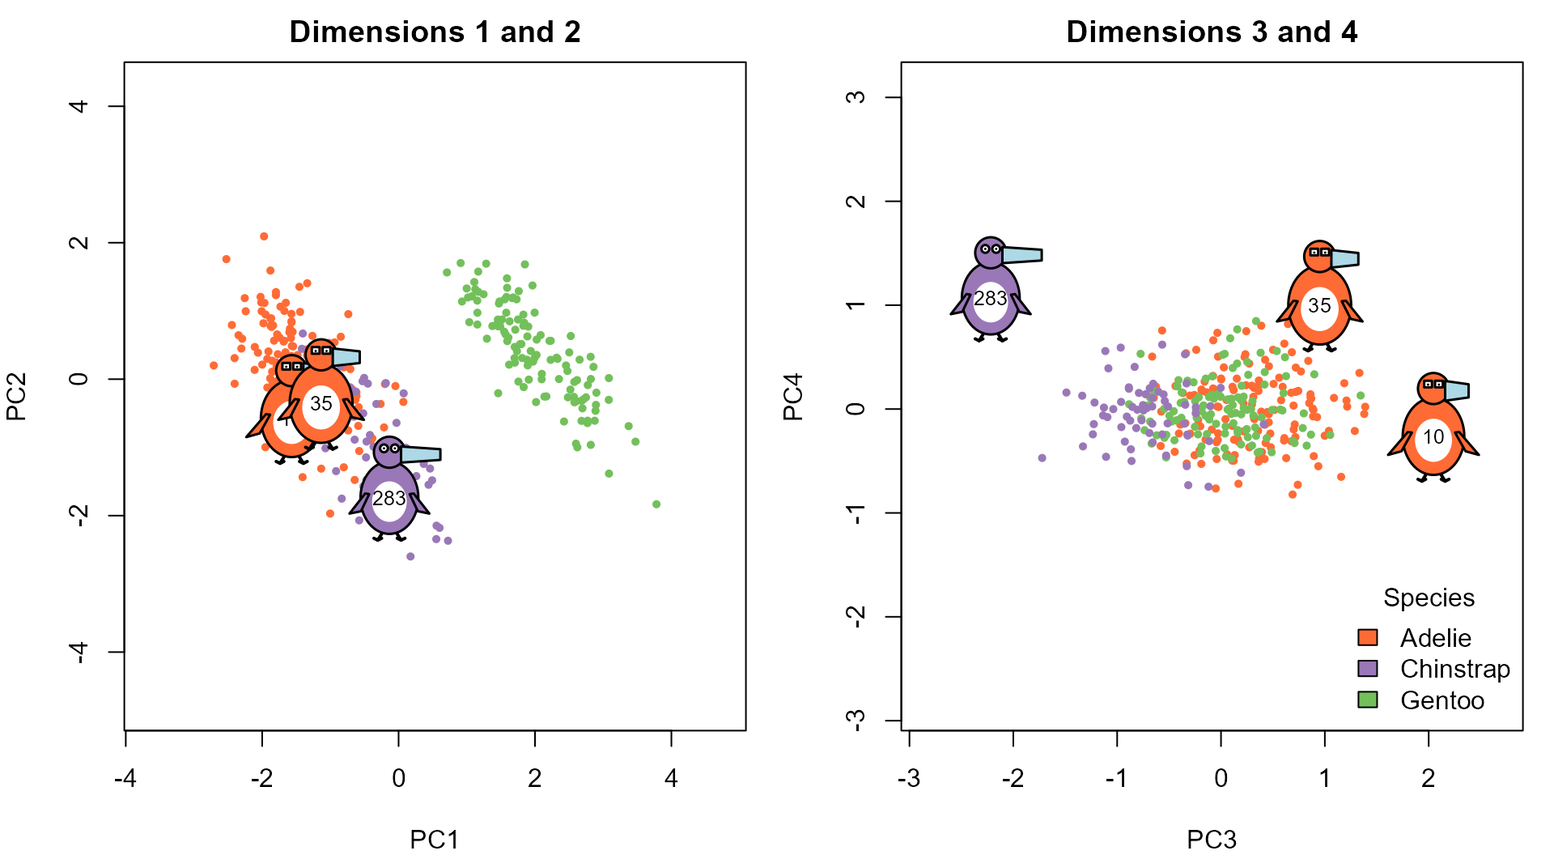
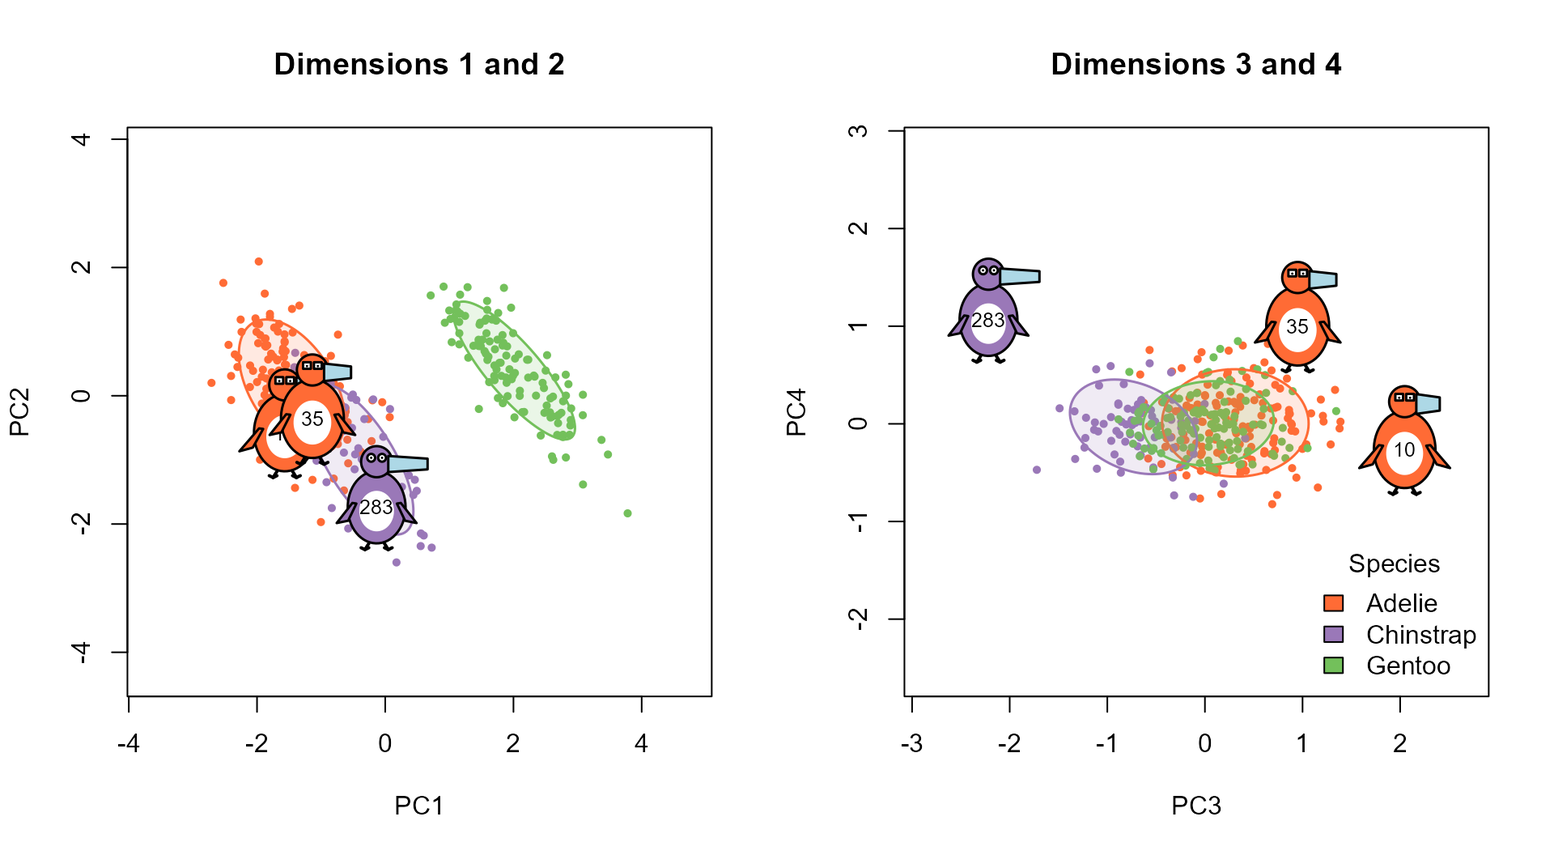
introduction vignette: use tinyplot, with data ellipses for the species
The scatterplot and the two principal component plots are drawn with
tinyplot, adding 68% data ellipses (lwd = 1.5, translucent fill). The
outlier figure uses tpar(mfrow) with a single legend inside the frame.

diff --git a/docs/articles/introduction.html b/docs/articles/introduction.html
@@ -104,7 +104,7 @@ drawing a penguin observation using R graphics like
 <code class="sourceCode R"><span><span class="co"># Install from GitHub</span></span>
 <span><span class="fu">devtools</span><span class="fu">::</span><span class="fu"><a href="https://devtools.r-lib.org/reference/install-deprecated.html" class="external-link">install_github</a></span><span class="op">(</span><span class="st">"friendly/penguinglyphs"</span><span class="op">)</span></span></code></pre></div>
 <div class="sourceCode" id="cb2"><pre class="downlit sourceCode r">
-<code class="sourceCode R"><span><span class="kw"><a href="https://rdrr.io/r/base/library.html" class="external-link">library</a></span><span class="op">(</span><span class="va"><a href="https://friendly.github.io/penguinglyphs/">penguinglyphs</a></span><span class="op">)</span></span></code></pre></div>
+<code class="sourceCode R"><span><span class="kw"><a href="https://rdrr.io/r/base/library.html" class="external-link">library</a></span><span class="op">(</span><span class="va"><a href="https://github.com/friendly/penguinglyphs" class="external-link">penguinglyphs</a></span><span class="op">)</span></span></code></pre></div>
 </div>
 <div class="section level2">
 <h2 id="visual-encoding">Visual Encoding<a class="anchor" aria-label="anchor" href="#visual-encoding"></a>
@@ -217,38 +217,68 @@ plotting symbol. <code><a href="../reference/penguin_points.html">penguin_points
 for each row of a data frame at given coordinates in an existing plot,
 as <code><a href="https://rdrr.io/r/graphics/points.html" class="external-link">points()</a></code> does for ordinary symbols.
 <code><a href="../reference/penguin_colors.html">penguin_legend()</a></code> adds a legend for the species.</p>
+<p>These plots are drawn with the <a href="https://grantmcdermott.com/tinyplot/" class="external-link">tinyplot</a> package, a
+lightweight extension of base R graphics that makes it easy to plot data
+by groups. Because it uses base graphics, penguin glyphs can be added to
+a <code><a href="https://grantmcdermott.com/tinyplot/man/tinyplot.html" class="external-link">tinyplot()</a></code> just as they can to a <code><a href="https://rdrr.io/r/graphics/plot.default.html" class="external-link">plot()</a></code>. In
+particular, it can draw a data ellipse for each species, to give a
+summary of the data that the glyphs can be seen against. I use 68%
+ellipses, lightly filled with a transparent version of the species
+color, the bivariate analog of a mean
+<math display="inline" xmlns="http://www.w3.org/1998/Math/MathML"><semantics><mo>±</mo><annotation encoding="application/x-tex">\pm</annotation></semantics></math>
+one standard deviation interval.</p>
 <p>Here, the glyphs for a sample of 40 penguins are the points in a
 scatterplot of body mass against flipper length. The glyphs repeat what
 the axes show, in that penguins toward the right have longer flippers
 and those toward the top have larger bodies, but they also show the bill
 and the sex of each penguin.</p>
 <div class="sourceCode" id="cb8"><pre class="downlit sourceCode r">
-<code class="sourceCode R"><span><span class="fu"><a href="https://rdrr.io/r/base/Random.html" class="external-link">set.seed</a></span><span class="op">(</span><span class="fl">42</span><span class="op">)</span></span>
+<code class="sourceCode R"><span><span class="kw"><a href="https://rdrr.io/r/base/library.html" class="external-link">library</a></span><span class="op">(</span><span class="va"><a href="https://grantmcdermott.com/tinyplot/" class="external-link">tinyplot</a></span><span class="op">)</span></span>
+<span><span class="va">cols</span> <span class="op">&lt;-</span> <span class="fu"><a href="https://rdrr.io/r/base/unname.html" class="external-link">unname</a></span><span class="op">(</span><span class="fu"><a href="../reference/penguin_colors.html">penguin_colors</a></span><span class="op">(</span><span class="op">)</span><span class="op">)</span></span>
+<span></span>
+<span><span class="fu"><a href="https://rdrr.io/r/base/Random.html" class="external-link">set.seed</a></span><span class="op">(</span><span class="fl">42</span><span class="op">)</span></span>
 <span><span class="va">show</span> <span class="op">&lt;-</span> <span class="fu"><a href="https://rdrr.io/r/base/sample.html" class="external-link">sample</a></span><span class="op">(</span><span class="fu"><a href="https://rdrr.io/r/base/nrow.html" class="external-link">nrow</a></span><span class="op">(</span><span class="va">peng</span><span class="op">)</span>, <span class="fl">40</span><span class="op">)</span></span>
 <span><span class="va">samp</span> <span class="op">&lt;-</span> <span class="va">peng</span><span class="op">[</span><span class="va">show</span>, <span class="op">]</span></span>
 <span></span>
-<span><span class="fu"><a href="https://rdrr.io/r/graphics/plot.default.html" class="external-link">plot</a></span><span class="op">(</span><span class="va">body_mass</span> <span class="op">~</span> <span class="va">flipper_len</span>, data <span class="op">=</span> <span class="va">samp</span>, type <span class="op">=</span> <span class="st">"n"</span>,</span>
-<span>     xlab <span class="op">=</span> <span class="st">"Flipper length (mm)"</span>, ylab <span class="op">=</span> <span class="st">"Body mass (g)"</span><span class="op">)</span></span>
+<span><span class="fu"><a href="https://grantmcdermott.com/tinyplot/man/tinyplot.html" class="external-link">tinyplot</a></span><span class="op">(</span><span class="va">body_mass</span> <span class="op">~</span> <span class="va">flipper_len</span> <span class="op">|</span> <span class="va">species</span>, data <span class="op">=</span> <span class="va">samp</span>,</span>
+<span>         type <span class="op">=</span> <span class="fu"><a href="https://grantmcdermott.com/tinyplot/man/type_ellipse.html" class="external-link">type_ellipse</a></span><span class="op">(</span>level <span class="op">=</span> <span class="fl">0.68</span><span class="op">)</span>,</span>
+<span>         col <span class="op">=</span> <span class="va">cols</span>, lwd <span class="op">=</span> <span class="fl">1.5</span>,</span>
+<span>         bg <span class="op">=</span> <span class="fu"><a href="https://rdrr.io/r/grDevices/adjustcolor.html" class="external-link">adjustcolor</a></span><span class="op">(</span><span class="va">cols</span>, alpha.f <span class="op">=</span> <span class="fl">0.15</span><span class="op">)</span>,</span>
+<span>         legend <span class="op">=</span> <span class="cn">FALSE</span>,</span>
+<span>         xlim <span class="op">=</span> <span class="fu"><a href="https://rdrr.io/r/grDevices/extendrange.html" class="external-link">extendrange</a></span><span class="op">(</span><span class="va">samp</span><span class="op">$</span><span class="va">flipper_len</span>, f <span class="op">=</span> <span class="fl">0.1</span><span class="op">)</span>,   <span class="co"># room for the glyphs</span></span>
+<span>         ylim <span class="op">=</span> <span class="fu"><a href="https://rdrr.io/r/grDevices/extendrange.html" class="external-link">extendrange</a></span><span class="op">(</span><span class="va">samp</span><span class="op">$</span><span class="va">body_mass</span>, f <span class="op">=</span> <span class="fl">0.1</span><span class="op">)</span>,</span>
+<span>         xlab <span class="op">=</span> <span class="st">"Flipper length (mm)"</span>, ylab <span class="op">=</span> <span class="st">"Body mass (g)"</span><span class="op">)</span></span>
 <span><span class="fu"><a href="../reference/penguin_points.html">penguin_points</a></span><span class="op">(</span><span class="va">samp</span><span class="op">$</span><span class="va">flipper_len</span>, <span class="va">samp</span><span class="op">$</span><span class="va">body_mass</span>, <span class="va">samp</span><span class="op">)</span></span>
 <span><span class="fu"><a href="../reference/penguin_colors.html">penguin_legend</a></span><span class="op">(</span><span class="st">"topleft"</span>, <span class="va">samp</span><span class="op">$</span><span class="va">species</span><span class="op">)</span></span></code></pre></div>
 <div class="figure">
-<img src="introduction_files/figure-html/fig-scatter-1.png" class="r-plt" alt="Penguin glyphs as the point symbols in a scatterplot" width="768"><p class="caption">
-Penguin glyphs as the point symbols in a scatterplot
+<img src="introduction_files/figure-html/fig-scatter-1.png" class="r-plt" alt="Penguin glyphs as the point symbols in a scatterplot, with 68% data ellipses for the species" width="768"><p class="caption">
+Penguin glyphs as the point symbols in a scatterplot, with 68% data
+ellipses for the species
 </p>
 </div>
 <p>The coordinates need not be variables in the data. A more useful
 display puts the glyphs in the space of the first two principal
 components, so that position summarizes all four measurements, and the
-glyph shows what lies behind it.</p>
+glyph shows what lies behind it. In this plot, the ellipses are
+calculated from all the penguins, and the glyphs are those for the
+sample.</p>
 <div class="sourceCode" id="cb9"><pre class="downlit sourceCode r">
 <code class="sourceCode R"><span><span class="va">pca</span> <span class="op">&lt;-</span> <span class="fu"><a href="https://rdrr.io/r/stats/prcomp.html" class="external-link">prcomp</a></span><span class="op">(</span><span class="va">peng</span><span class="op">[</span>, <span class="fl">3</span><span class="op">:</span><span class="fl">6</span><span class="op">]</span>, scale. <span class="op">=</span> <span class="cn">TRUE</span><span class="op">)</span></span>
+<span><span class="va">scores</span> <span class="op">&lt;-</span> <span class="fu"><a href="https://rdrr.io/r/base/data.frame.html" class="external-link">data.frame</a></span><span class="op">(</span><span class="va">pca</span><span class="op">$</span><span class="va">x</span>, species <span class="op">=</span> <span class="va">peng</span><span class="op">$</span><span class="va">species</span><span class="op">)</span></span>
 <span></span>
-<span><span class="fu"><a href="https://rdrr.io/r/graphics/plot.default.html" class="external-link">plot</a></span><span class="op">(</span><span class="va">pca</span><span class="op">$</span><span class="va">x</span><span class="op">[</span>, <span class="fl">1</span><span class="op">:</span><span class="fl">2</span><span class="op">]</span>, type <span class="op">=</span> <span class="st">"n"</span>, asp <span class="op">=</span> <span class="fl">1</span><span class="op">)</span></span>
-<span><span class="fu"><a href="../reference/penguin_points.html">penguin_points</a></span><span class="op">(</span><span class="va">pca</span><span class="op">$</span><span class="va">x</span><span class="op">[</span><span class="va">show</span>, <span class="fl">1</span><span class="op">]</span>, <span class="va">pca</span><span class="op">$</span><span class="va">x</span><span class="op">[</span><span class="va">show</span>, <span class="fl">2</span><span class="op">]</span>, <span class="va">samp</span><span class="op">)</span></span>
-<span><span class="fu"><a href="../reference/penguin_colors.html">penguin_legend</a></span><span class="op">(</span><span class="st">"top"</span>, <span class="va">samp</span><span class="op">$</span><span class="va">species</span>, horiz <span class="op">=</span> <span class="cn">TRUE</span><span class="op">)</span></span></code></pre></div>
+<span><span class="fu"><a href="https://grantmcdermott.com/tinyplot/man/tinyplot.html" class="external-link">tinyplot</a></span><span class="op">(</span><span class="va">PC2</span> <span class="op">~</span> <span class="va">PC1</span> <span class="op">|</span> <span class="va">species</span>, data <span class="op">=</span> <span class="va">scores</span>,</span>
+<span>         type <span class="op">=</span> <span class="fu"><a href="https://grantmcdermott.com/tinyplot/man/type_ellipse.html" class="external-link">type_ellipse</a></span><span class="op">(</span>level <span class="op">=</span> <span class="fl">0.68</span><span class="op">)</span>,</span>
+<span>         col <span class="op">=</span> <span class="va">cols</span>, lwd <span class="op">=</span> <span class="fl">1.5</span>,</span>
+<span>         bg <span class="op">=</span> <span class="fu"><a href="https://rdrr.io/r/grDevices/adjustcolor.html" class="external-link">adjustcolor</a></span><span class="op">(</span><span class="va">cols</span>, alpha.f <span class="op">=</span> <span class="fl">0.15</span><span class="op">)</span>,</span>
+<span>         legend <span class="op">=</span> <span class="cn">FALSE</span>, asp <span class="op">=</span> <span class="fl">1</span>,</span>
+<span>         xlim <span class="op">=</span> <span class="fu"><a href="https://rdrr.io/r/grDevices/extendrange.html" class="external-link">extendrange</a></span><span class="op">(</span><span class="va">scores</span><span class="op">$</span><span class="va">PC1</span>, f <span class="op">=</span> <span class="fl">0.1</span><span class="op">)</span>,</span>
+<span>         ylim <span class="op">=</span> <span class="fu"><a href="https://rdrr.io/r/grDevices/extendrange.html" class="external-link">extendrange</a></span><span class="op">(</span><span class="va">scores</span><span class="op">$</span><span class="va">PC2</span>, f <span class="op">=</span> <span class="fl">0.1</span><span class="op">)</span><span class="op">)</span></span>
+<span><span class="fu"><a href="../reference/penguin_points.html">penguin_points</a></span><span class="op">(</span><span class="va">scores</span><span class="op">$</span><span class="va">PC1</span><span class="op">[</span><span class="va">show</span><span class="op">]</span>, <span class="va">scores</span><span class="op">$</span><span class="va">PC2</span><span class="op">[</span><span class="va">show</span><span class="op">]</span>, <span class="va">samp</span><span class="op">)</span></span>
+<span><span class="fu"><a href="../reference/penguin_colors.html">penguin_legend</a></span><span class="op">(</span><span class="st">"bottomleft"</span>, <span class="va">samp</span><span class="op">$</span><span class="va">species</span><span class="op">)</span></span></code></pre></div>
 <div class="figure">
-<img src="introduction_files/figure-html/fig-pca-1.png" class="r-plt" alt="Penguin glyphs in the space of the first two principal components" width="768"><p class="caption">
-Penguin glyphs in the space of the first two principal components
+<img src="introduction_files/figure-html/fig-pca-1.png" class="r-plt" alt="Penguin glyphs in the space of the first two principal components, with 68% data ellipses for the species" width="768"><p class="caption">
+Penguin glyphs in the space of the first two principal components, with
+68% data ellipses for the species
 </p>
 </div>
 </div>
@@ -316,24 +346,31 @@ components, all three are on the periphery: penguins 283 and 10 are at
 opposite ends of the third dimension, and 35 is at the top of the
 fourth.</p>
 <div class="sourceCode" id="cb14"><pre class="downlit sourceCode r">
-<code class="sourceCode R"><span><span class="va">op</span> <span class="op">&lt;-</span> <span class="fu"><a href="https://rdrr.io/r/graphics/par.html" class="external-link">par</a></span><span class="op">(</span>mfrow <span class="op">=</span> <span class="fu"><a href="https://rdrr.io/r/base/c.html" class="external-link">c</a></span><span class="op">(</span><span class="fl">1</span>, <span class="fl">2</span><span class="op">)</span>, mar <span class="op">=</span> <span class="fu"><a href="https://rdrr.io/r/base/c.html" class="external-link">c</a></span><span class="op">(</span><span class="fl">4</span>, <span class="fl">4</span>, <span class="fl">2</span>, <span class="fl">1</span><span class="op">)</span><span class="op">)</span></span>
+<code class="sourceCode R"><span><span class="va">op</span> <span class="op">&lt;-</span> <span class="fu"><a href="https://grantmcdermott.com/tinyplot/man/tpar.html" class="external-link">tpar</a></span><span class="op">(</span>mfrow <span class="op">=</span> <span class="fu"><a href="https://rdrr.io/r/base/c.html" class="external-link">c</a></span><span class="op">(</span><span class="fl">1</span>, <span class="fl">2</span><span class="op">)</span><span class="op">)</span></span>
 <span><span class="kw">for</span> <span class="op">(</span><span class="va">dims</span> <span class="kw">in</span> <span class="fu"><a href="https://rdrr.io/r/base/list.html" class="external-link">list</a></span><span class="op">(</span><span class="fl">1</span><span class="op">:</span><span class="fl">2</span>, <span class="fl">3</span><span class="op">:</span><span class="fl">4</span><span class="op">)</span><span class="op">)</span> <span class="op">{</span></span>
-<span>  <span class="fu"><a href="https://rdrr.io/r/graphics/plot.default.html" class="external-link">plot</a></span><span class="op">(</span><span class="va">pca</span><span class="op">$</span><span class="va">x</span><span class="op">[</span>, <span class="va">dims</span><span class="op">]</span>, asp <span class="op">=</span> <span class="fl">1</span>, pch <span class="op">=</span> <span class="fl">16</span>, cex <span class="op">=</span> <span class="fl">0.7</span>,</span>
-<span>       xlim <span class="op">=</span> <span class="fu"><a href="https://rdrr.io/r/grDevices/extendrange.html" class="external-link">extendrange</a></span><span class="op">(</span><span class="va">pca</span><span class="op">$</span><span class="va">x</span><span class="op">[</span>, <span class="va">dims</span><span class="op">[</span><span class="fl">1</span><span class="op">]</span><span class="op">]</span>, f <span class="op">=</span> <span class="fl">0.15</span><span class="op">)</span>,   <span class="co"># room for the glyphs</span></span>
-<span>       col <span class="op">=</span> <span class="fu"><a href="../reference/penguin_colors.html">penguin_colors</a></span><span class="op">(</span><span class="op">)</span><span class="op">[</span><span class="fu"><a href="https://rdrr.io/r/base/character.html" class="external-link">as.character</a></span><span class="op">(</span><span class="va">peng</span><span class="op">$</span><span class="va">species</span><span class="op">)</span><span class="op">]</span>,</span>
-<span>       main <span class="op">=</span> <span class="fu"><a href="https://rdrr.io/r/base/paste.html" class="external-link">paste</a></span><span class="op">(</span><span class="st">"Dimensions"</span>, <span class="va">dims</span><span class="op">[</span><span class="fl">1</span><span class="op">]</span>, <span class="st">"and"</span>, <span class="va">dims</span><span class="op">[</span><span class="fl">2</span><span class="op">]</span><span class="op">)</span><span class="op">)</span></span>
-<span>  <span class="fu"><a href="../reference/penguin_points.html">penguin_points</a></span><span class="op">(</span><span class="va">pca</span><span class="op">$</span><span class="va">x</span><span class="op">[</span><span class="va">outliers</span>, <span class="va">dims</span><span class="op">[</span><span class="fl">1</span><span class="op">]</span><span class="op">]</span>, <span class="va">pca</span><span class="op">$</span><span class="va">x</span><span class="op">[</span><span class="va">outliers</span>, <span class="va">dims</span><span class="op">[</span><span class="fl">2</span><span class="op">]</span><span class="op">]</span>, <span class="va">peng</span><span class="op">[</span><span class="va">outliers</span>, <span class="op">]</span>,</span>
+<span>  <span class="va">pc</span> <span class="op">&lt;-</span> <span class="fu"><a href="https://rdrr.io/r/base/paste.html" class="external-link">paste0</a></span><span class="op">(</span><span class="st">"PC"</span>, <span class="va">dims</span><span class="op">)</span></span>
+<span>  <span class="fu"><a href="https://grantmcdermott.com/tinyplot/man/tinyplot.html" class="external-link">tinyplot</a></span><span class="op">(</span><span class="fu"><a href="https://rdrr.io/r/stats/delete.response.html" class="external-link">reformulate</a></span><span class="op">(</span><span class="fu"><a href="https://rdrr.io/r/base/paste.html" class="external-link">paste</a></span><span class="op">(</span><span class="va">pc</span><span class="op">[</span><span class="fl">1</span><span class="op">]</span>, <span class="st">"| species"</span><span class="op">)</span>, response <span class="op">=</span> <span class="va">pc</span><span class="op">[</span><span class="fl">2</span><span class="op">]</span><span class="op">)</span>, data <span class="op">=</span> <span class="va">scores</span>,</span>
+<span>           pch <span class="op">=</span> <span class="fl">16</span>, cex <span class="op">=</span> <span class="fl">0.7</span>,</span>
+<span>           col <span class="op">=</span> <span class="va">cols</span>, legend <span class="op">=</span> <span class="cn">FALSE</span>, asp <span class="op">=</span> <span class="fl">1</span>,</span>
+<span>           xlim <span class="op">=</span> <span class="fu"><a href="https://rdrr.io/r/grDevices/extendrange.html" class="external-link">extendrange</a></span><span class="op">(</span><span class="va">scores</span><span class="op">[[</span><span class="va">pc</span><span class="op">[</span><span class="fl">1</span><span class="op">]</span><span class="op">]</span><span class="op">]</span>, f <span class="op">=</span> <span class="fl">0.15</span><span class="op">)</span>,   <span class="co"># room for the glyphs</span></span>
+<span>           main <span class="op">=</span> <span class="fu"><a href="https://rdrr.io/r/base/paste.html" class="external-link">paste</a></span><span class="op">(</span><span class="st">"Dimensions"</span>, <span class="va">dims</span><span class="op">[</span><span class="fl">1</span><span class="op">]</span>, <span class="st">"and"</span>, <span class="va">dims</span><span class="op">[</span><span class="fl">2</span><span class="op">]</span><span class="op">)</span><span class="op">)</span></span>
+<span>  <span class="fu"><a href="https://grantmcdermott.com/tinyplot/man/tinyplot_add.html" class="external-link">tinyplot_add</a></span><span class="op">(</span>type <span class="op">=</span> <span class="fu"><a href="https://grantmcdermott.com/tinyplot/man/type_ellipse.html" class="external-link">type_ellipse</a></span><span class="op">(</span>level <span class="op">=</span> <span class="fl">0.68</span><span class="op">)</span>, lwd <span class="op">=</span> <span class="fl">1.5</span>, </span>
+<span>               bg <span class="op">=</span> <span class="fu"><a href="https://rdrr.io/r/grDevices/adjustcolor.html" class="external-link">adjustcolor</a></span><span class="op">(</span><span class="va">cols</span>, alpha.f <span class="op">=</span> <span class="fl">0.15</span><span class="op">)</span><span class="op">)</span></span>
+<span>  <span class="fu"><a href="../reference/penguin_points.html">penguin_points</a></span><span class="op">(</span><span class="va">scores</span><span class="op">[</span><span class="va">outliers</span>, <span class="va">pc</span><span class="op">[</span><span class="fl">1</span><span class="op">]</span><span class="op">]</span>, <span class="va">scores</span><span class="op">[</span><span class="va">outliers</span>, <span class="va">pc</span><span class="op">[</span><span class="fl">2</span><span class="op">]</span><span class="op">]</span>, <span class="va">peng</span><span class="op">[</span><span class="va">outliers</span>, <span class="op">]</span>,</span>
 <span>                 size <span class="op">=</span> <span class="fl">0.7</span>, id <span class="op">=</span> <span class="cn">TRUE</span><span class="op">)</span></span>
 <span><span class="op">}</span></span>
 <span><span class="fu"><a href="../reference/penguin_colors.html">penguin_legend</a></span><span class="op">(</span><span class="st">"bottomright"</span>, <span class="va">peng</span><span class="op">$</span><span class="va">species</span><span class="op">)</span></span></code></pre></div>
 <div class="figure">
-<img src="introduction_files/figure-html/fig-pca-outliers-1.png" class="r-plt" alt="The three most unusual penguins, shown as glyphs in plots of the first two principal components (left) and the last two (right)." width="960"><p class="caption">
+<img src="introduction_files/figure-html/fig-pca-outliers-1.png" class="r-plt" alt="The three most unusual penguins, shown as glyphs in plots of the first two principal components (left) and the last two (right), with 68% data ellipses for the species." width="960"><p class="caption">
 The three most unusual penguins, shown as glyphs in plots of the first
-two principal components (left) and the last two (right).
+two principal components (left) and the last two (right), with 68% data
+ellipses for the species.
 </p>
 </div>
 <div class="sourceCode" id="cb15"><pre class="downlit sourceCode r">
-<code class="sourceCode R"><span><span class="fu"><a href="https://rdrr.io/r/graphics/par.html" class="external-link">par</a></span><span class="op">(</span><span class="va">op</span><span class="op">)</span></span></code></pre></div>
+<code class="sourceCode R"><span><span class="fu"><a href="https://grantmcdermott.com/tinyplot/man/tpar.html" class="external-link">tpar</a></span><span class="op">(</span><span class="va">op</span><span class="op">)</span></span></code></pre></div>
+<p>In the last two dimensions the species largely coincide, and the
+outliers are far outside all three ellipses.</p>
 </div>
 <div class="section level3">
 <h3 id="visual-lineup">Visual Lineup<a class="anchor" aria-label="anchor" href="#visual-lineup"></a>
